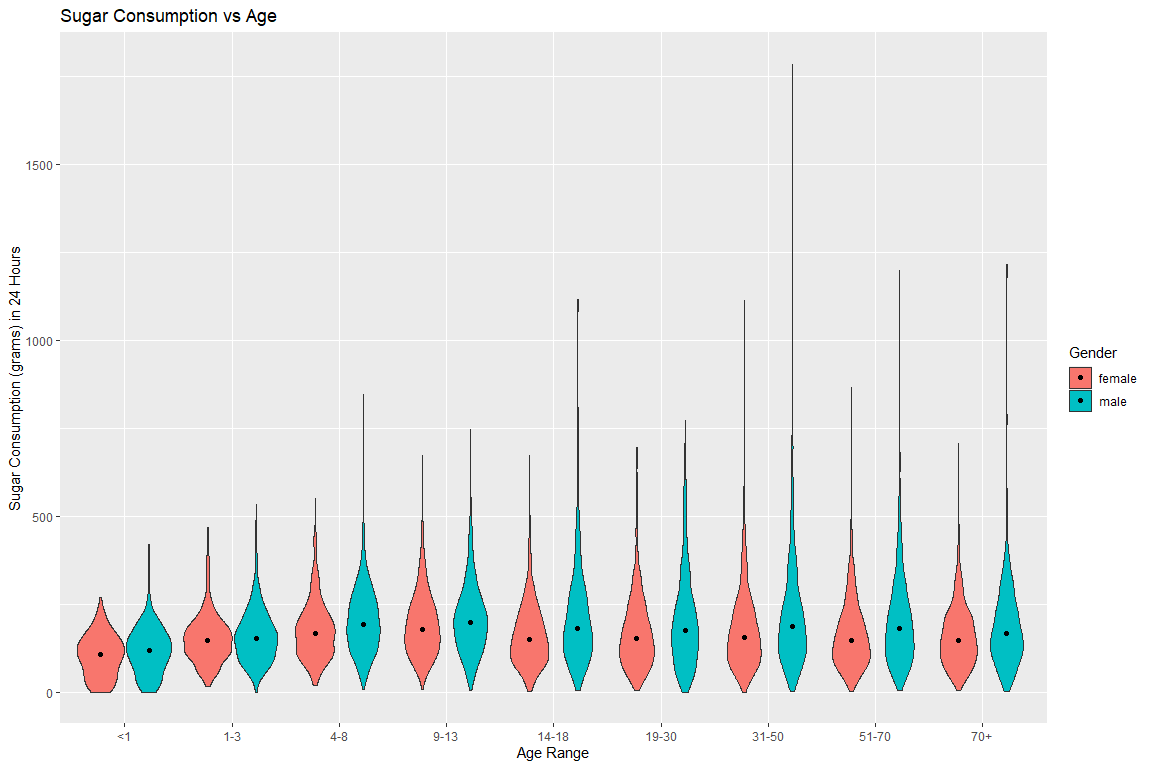
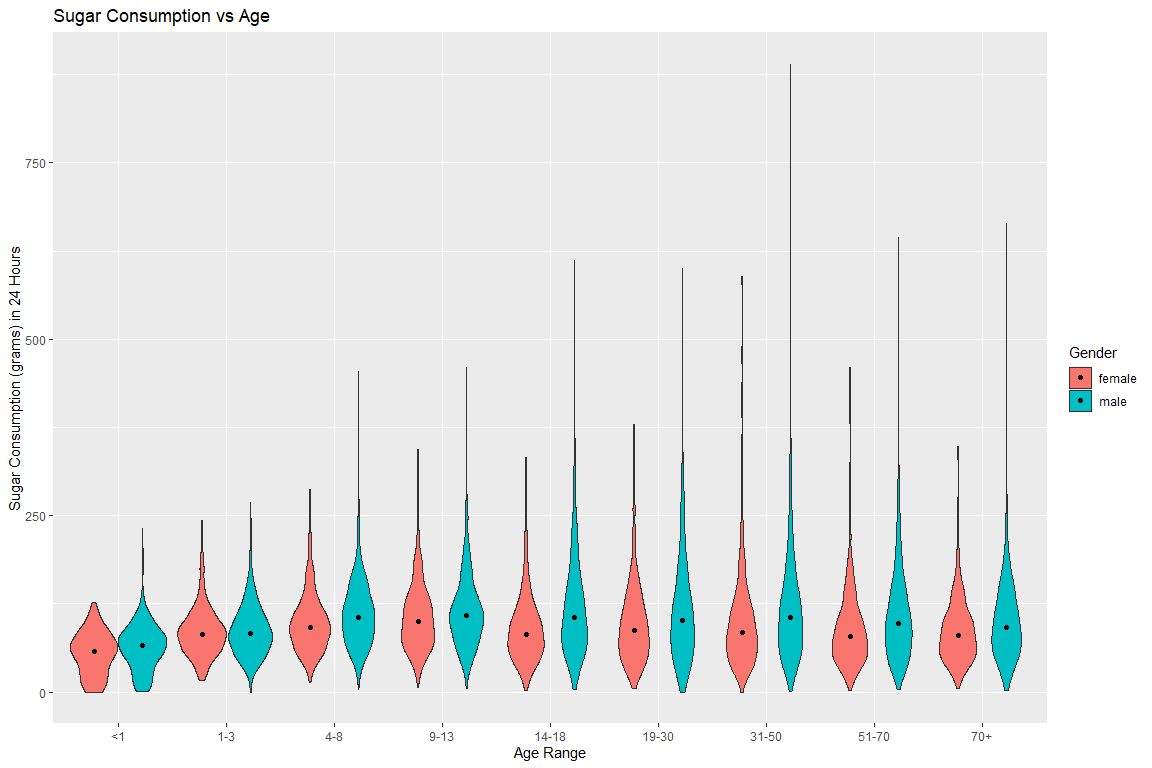
editing violin plots to account for 2 day observations

diff --git a/README.md b/README.md
@@ -1,7 +1,7 @@
 PM566 Midterm Project
 ================
 Flemming Wu
-2022-10-17
+2022-10-19
 
 # Introduction
 
@@ -308,9 +308,6 @@ acid consumption. As expected, bebida, or drinks, are associated with
 the lowest saturated fatty acid consumption.
 
 #### Does sugar / saturated fatty acid consumption vary by age, ethnicity, gender?
-
-**need to average observations for people that had recordings in day 1
-and day 2**
 
 <img src="README_files/figure-gfm/sugar and sat fa consumption by age-1.png" style="display: block; margin: auto;" /><img src="README_files/figure-gfm/sugar and sat fa consumption by age-2.png" style="display: block; margin: auto;" />
 The violin plots above reveal several trends in average sugar and
